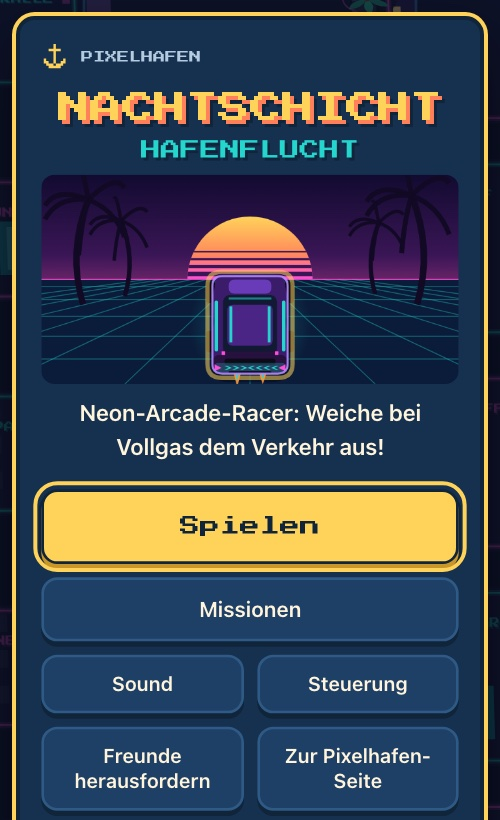
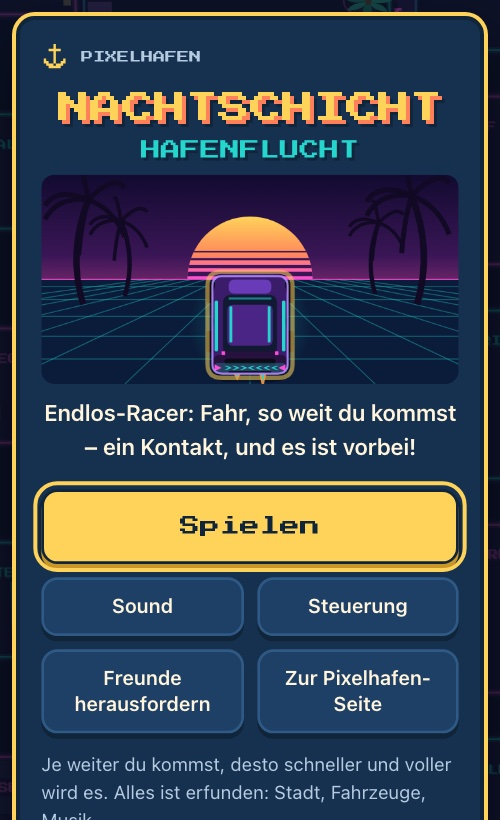
Nachtschicht: Endlos-Spiel mit Ein-Kontakt-Regel in Text und Bildern

diff --git a/index.html b/index.html
@@ -696,8 +696,8 @@ const SPIELE = [
 
   {
     titel: 'NACHTSCHICHT: HAFENFLUCHT',
-    beschreibung: 'Ein schneller Neon-Arcade-Racer in der Draufsicht: Bei Vollgas durch eine erfundene 80er-Küstenmetropole, vorbei an Palmen, Neonhotels und Hafenlagern. Ein Tipp links oder rechts, und du bist eine Spur weiter: Weiche immer dichterem Verkehr aus, verbinde saubere Überholserien und nimm leuchtende Boostfelder mit. In Neon-Endlos wird es mit jedem Kilometer schneller und voller. Hauptmodus Neon-Endlos, dazu drei kompakte Missionen mit optionalem Coup-Einstieg und eigener Synthwave-Musik.',
-    merkmale: ['Neon-Endlos', '3 Missionen', 'Boostfelder', 'Überholserien', 'Eigene 80er-Musik', 'Freunde-Rangliste'],
+    beschreibung: 'Ein Endlos-Racer in der Neon-Draufsicht: Fahr durch eine erfundene 80er-Küstenmetropole, so weit du kommst. Ein Tipp links oder rechts, und du bist eine Spur weiter – aber berührst du ein anderes Auto, ist die Fahrt vorbei. Mit jedem Kilometer wird es schneller und voller. Boostfelder, Überholserien und eigene Synthwave-Musik.',
+    merkmale: ['Endlos', 'Ein Kontakt = Ende', 'Immer schneller', 'Boostfelder', 'Eigene 80er-Musik', 'Freunde-Rangliste'],
     steuerung: 'Handy: links oder rechts tippen = eine Spur wechseln (freies Ziehen wählbar). Computer: Pfeiltasten oder A und D (ein Druck = eine Spur), Mausklick links oder rechts, P für Pause, M für Ton.',
     spielen: 'https://moje9328.github.io/nachtschicht/',
     download: 'https://moje9328.github.io/nachtschicht/index.html',
